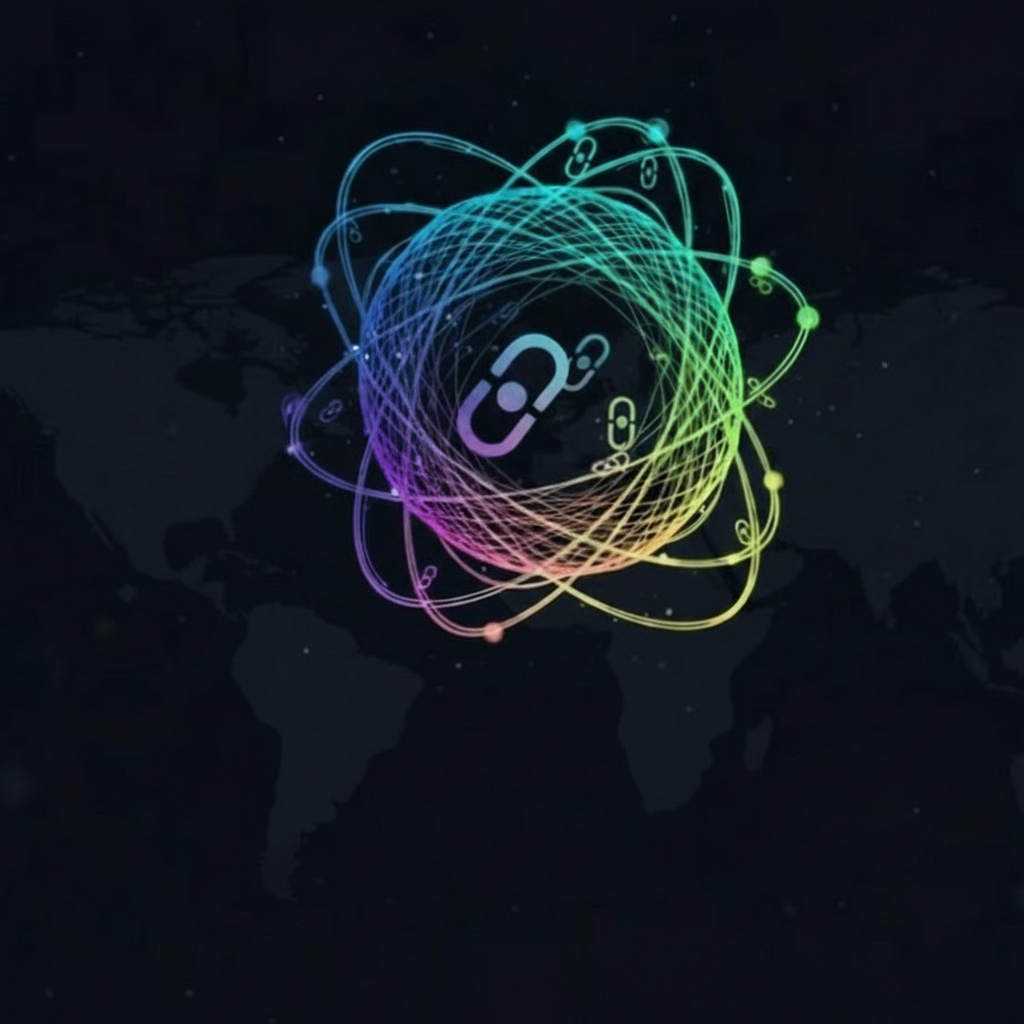
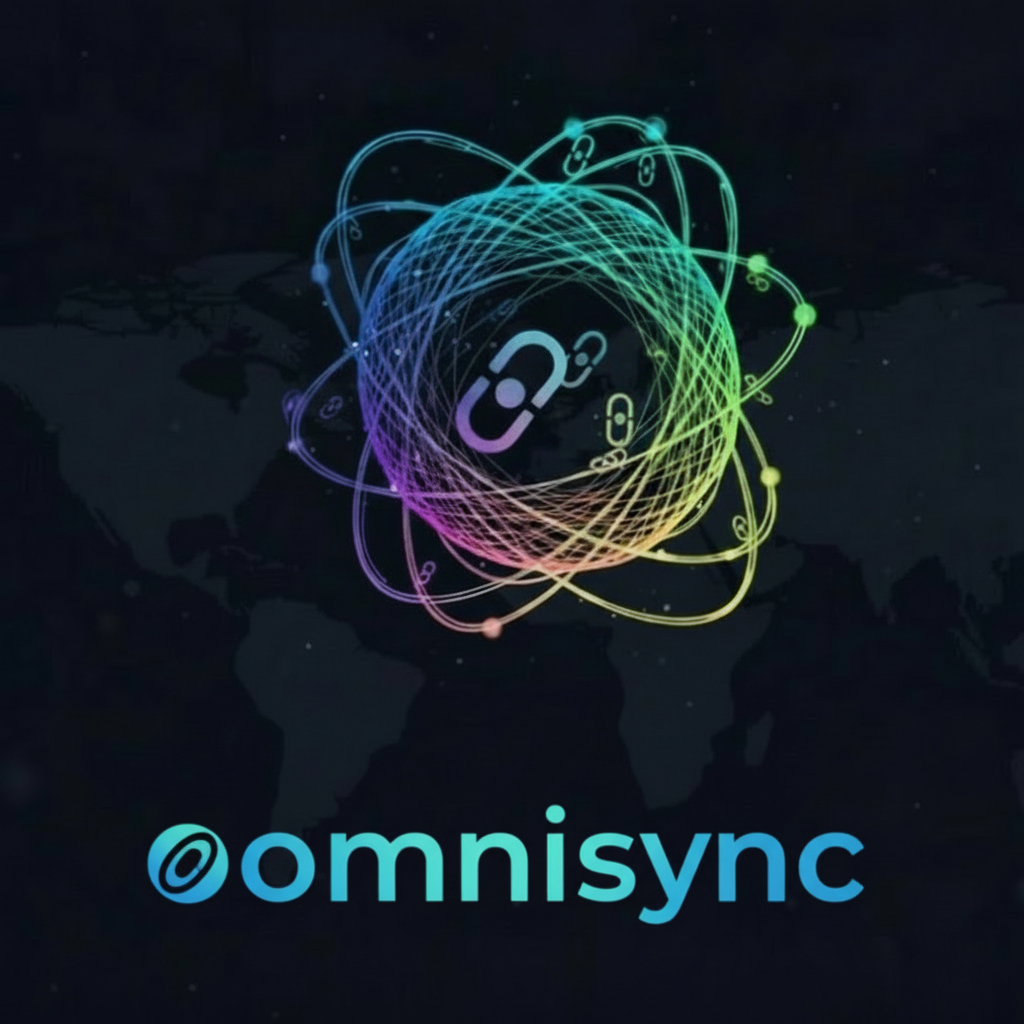
Changes

Changed region(s): [[0.2812, 0.0938, 0.8125, 0.625], [0.125, 0.7812, 0.8438, 0.9062], [0.5938, 0.5938, 0.7188, 0.625]]

diff --git a/src/pages/Auth/Login.tsx b/src/pages/Auth/Login.tsx
@@ -74,7 +74,7 @@ export default function Login() {
         {/* Content */}
         <div className="relative z-10 flex flex-col items-center justify-center min-h-screen p-8">
           {/* Logo circular grande */}
-          <div className="mb-4 animate-fade-in flex flex-col items-center">
+          <div className="mb-8 animate-fade-in">
              <div className="w-56 h-56 md:w-72 md:h-72 lg:w-80 lg:h-80 rounded-full overflow-hidden border-4 border-cyan-400/40 shadow-2xl shadow-cyan-500/40 bg-slate-800/50 p-1 hover:scale-105 transition-transform duration-500">
                <img 
                  src={omnisyncSphere} 
@@ -82,9 +82,6 @@ export default function Login() {
                  className="w-full h-full object-cover rounded-full"
                />
              </div>
-             <h1 className="mt-4 text-4xl md:text-5xl font-bold bg-gradient-to-r from-cyan-400 to-green-400 bg-clip-text text-transparent tracking-wide">
-               Omnisync
-             </h1>
           </div>
           
           {/* Promotional message */}
